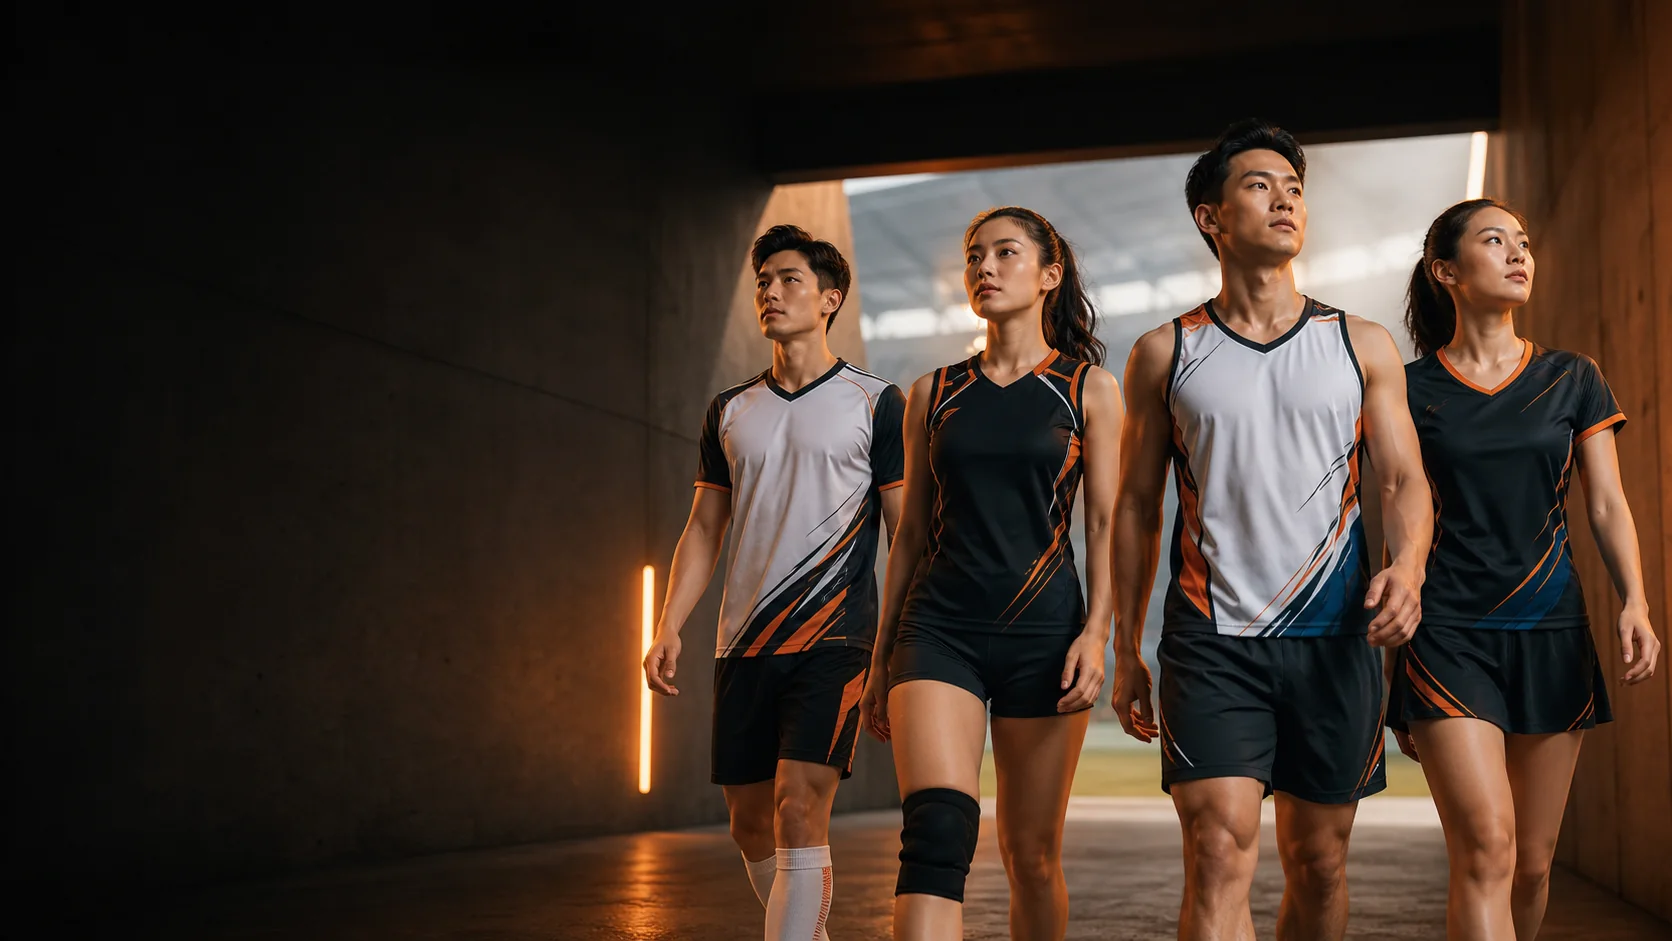
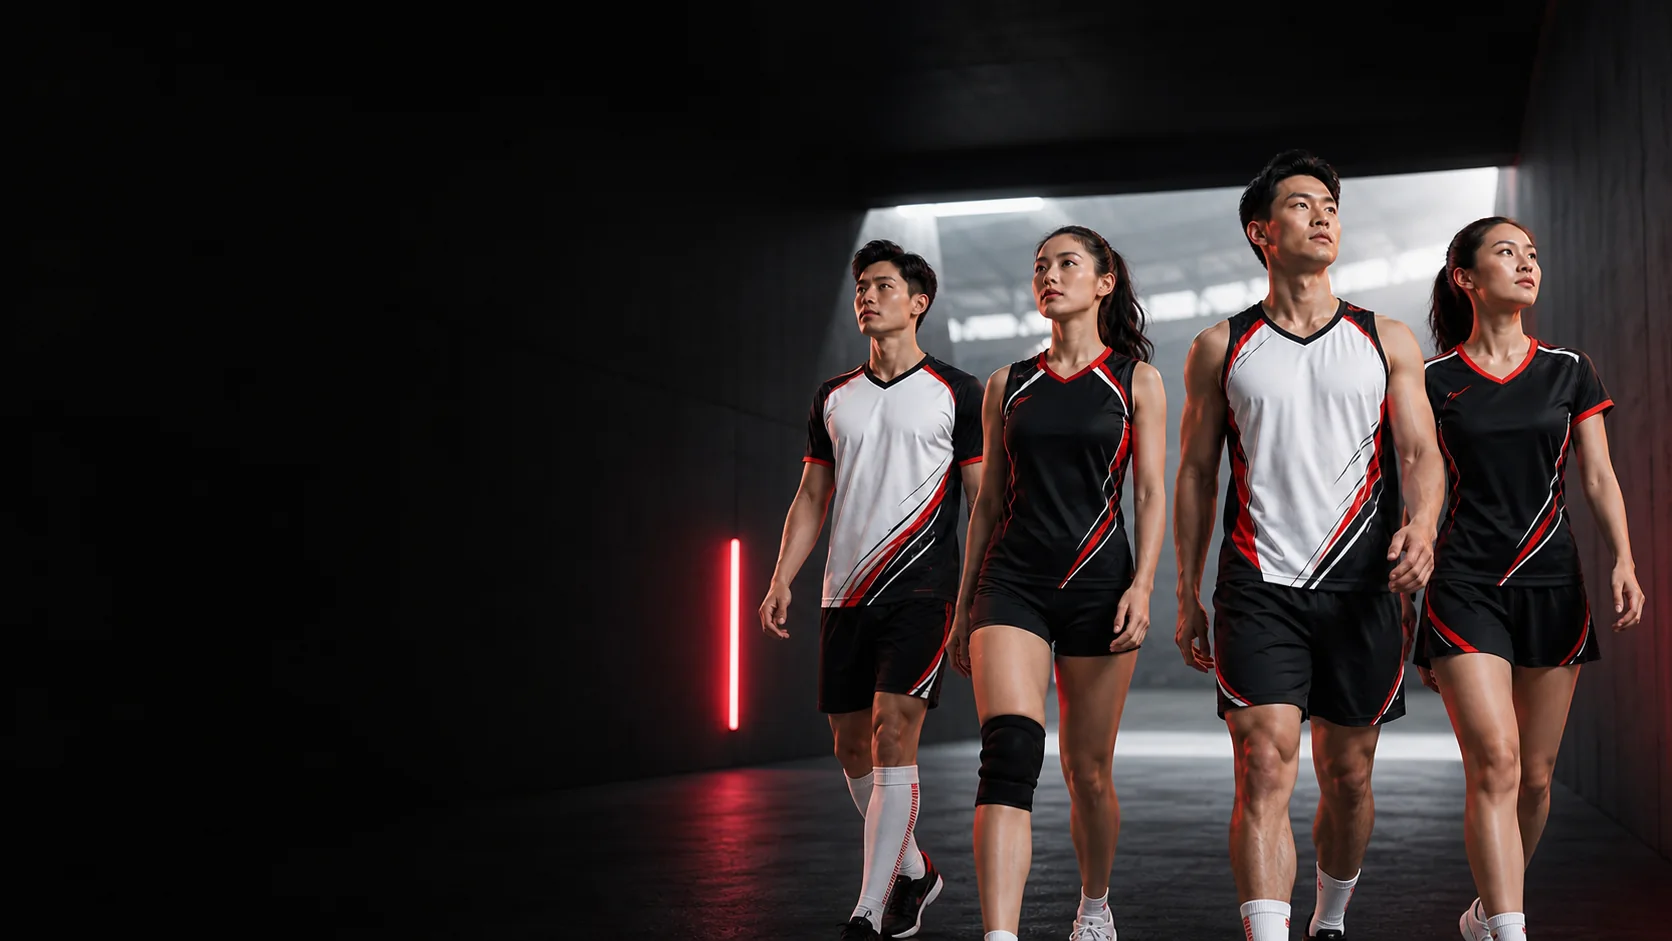
feat(x24sport): align homepage hero with brand palette

diff --git a/cms-frontend/src/app/styles.css b/cms-frontend/src/app/styles.css
@@ -47,9 +47,9 @@ img{display:block}
 .promo-hero>img{object-fit:cover;object-position:64% center}
 .promo-shade{position:absolute;inset:0;background:linear-gradient(90deg,rgba(0,0,0,.84) 0%,rgba(0,0,0,.48) 42%,rgba(0,0,0,.05) 72%),linear-gradient(0deg,rgba(0,0,0,.35),transparent 45%)}
 .promo-copy{position:absolute;z-index:1;left:7%;top:50%;width:64%;color:#fff;transform:translateY(-50%)}
-.promo-copy>span{display:inline-block;margin-bottom:19px;color:#fff;font-size:12px;font-weight:700;letter-spacing:2px}.promo-copy>span:before{content:"";display:inline-block;width:25px;height:3px;margin:0 9px 3px 0;background:var(--orange)}
+.promo-copy>span{display:inline-block;margin-bottom:19px;color:#fff;font-size:12px;font-weight:700;letter-spacing:2px}.promo-copy>span:before{content:"";display:inline-block;width:25px;height:3px;margin:0 9px 3px 0;background:#ed1c24}
 .promo-copy h1{display:grid;gap:.18em;margin:0;font-size:clamp(42px,3.5vw,64px);font-weight:900;letter-spacing:-2px;line-height:1}.promo-copy h1 span{display:block;white-space:nowrap}.promo-copy p{max-width:430px;margin:23px 0;color:#eee;font-size:16px;line-height:1.55}
-.promo-copy a,.process-highlight a{display:inline-flex;align-items:center;gap:12px;padding:13px 19px;background:var(--orange);color:#fff;font-size:13px;font-weight:700;text-transform:uppercase}
+.promo-copy a,.process-highlight a{display:inline-flex;align-items:center;gap:12px;padding:13px 19px;background:var(--orange);color:#fff;font-size:13px;font-weight:700;text-transform:uppercase}.promo-copy a{background:#ed1c24}
 .directory-panel{padding:23px 22px 0;background:#fff;border:1px solid #eee}
 .directory-heading{margin-bottom:16px}.directory-heading span{color:var(--orange);font-size:11px;font-weight:700;letter-spacing:1.6px}.directory-heading h2{margin:4px 0 0;color:#111;font-size:25px;font-weight:900;letter-spacing:-.7px}
 .category-grid{display:grid;grid-template-columns:repeat(3,1fr);gap:10px}
